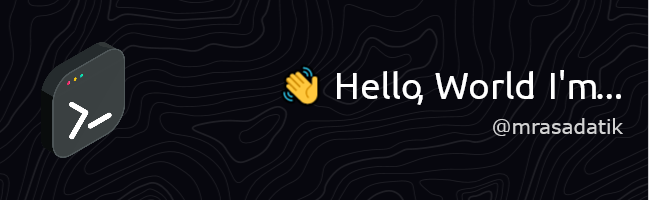
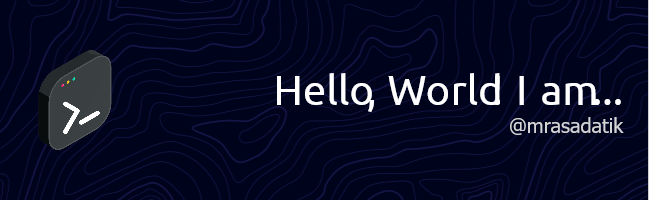
fix: Update README to use HTML for header image and replace the image file with a new version

diff --git a/README.md b/README.md
@@ -1,4 +1,4 @@
-![Hello World! I am @mrasadatik](./assets/github-header-image.png)
+<img src="./assets/github-header-image.png" alt="Hello World! I am @mrasadatik" width="100%" />
 
 I'm a tech enthusiast and programmer with a deep passion for technology, innovation, and sustainable energy. My journey in technology has been an exciting adventure filled with learning, building, and exploring new solutions.
 
